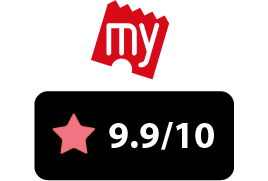
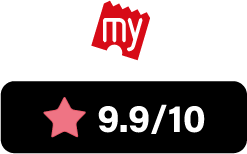
feat: enhance landing page with film embed feature and update rating badges with dimensions

Changed region(s): [[0.0, 0.4935, 1.0, 1.0], [0.3401, 0.0, 0.6518, 0.4416], [0.17, 0.6234, 0.3684, 0.9091]]

diff --git a/src/app/page.tsx b/src/app/page.tsx
@@ -1,24 +1,32 @@
 "use client";
 
-import { useRef } from "react";
+import { useRef, useState } from "react";
 import Image from "next/image";
 import { motion, useScroll, useTransform } from "framer-motion";
 import { ChevronDown } from "lucide-react";
 import MainPage from "@/app/main/page";
 
 const HERO_SCROLL_HEIGHT = "220vh";
+const FILM_SCROLL_HEIGHT = "200vh";
+
+const FILM_EMBEDS = [
+  { code: "kn", label: "Kannada", videoId: "0HNt5F_lEq4" },
+  { code: "hi", label: "Hindi", videoId: "f6K89V1VGH4" },
+  { code: "ta", label: "Tamil", videoId: "aHneBgdc4KQ" },
+  { code: "te", label: "Telugu", videoId: "KXth3Cikz0k" },
+] as const;
 
 const RATING_BADGES = [
-  { src: "/Asset 1@2x.png", alt: "BookMyShow rates Valavaara 9.9/10" },
-  { src: "/Asset 2@2x.png", alt: "IMDb rates Valavaara 7.3/10" },
-  { src: "/Asset 3@2x.png", alt: "Critic rating 4/5" },
-  { src: "/Asset 4@2x.png", alt: "TV9 Kannada rates Valavaara 4/5" },
-  { src: "/Asset 5@2x.png", alt: "Times of India rates Valavaara 4/5" },
-  { src: "/Asset 6@2x.png", alt: "Critic rating 3.5/5" },
-  { src: "/Asset 7@2x.png", alt: "Critic rating 4/5" },
-  { src: "/Asset 8@2x.png", alt: "Critic rating 3.5/5" },
-  { src: "/Asset 9@2x.png", alt: "Critic rating 3.5/5" },
-  { src: "/Asset 10@2x.png", alt: "Critic rating 3.5/5" },
+  { src: "/Asset 1@2x.png", alt: "BookMyShow rates Valavaara 9.9/10", width: 247, height: 154 },
+  { src: "/Asset 2@2x.png", alt: "IMDb rates Valavaara 7.3/10", width: 247, height: 154 },
+  { src: "/Asset 3@2x.png", alt: "Critic rating 4/5", width: 355, height: 152 },
+  { src: "/Asset 4@2x.png", alt: "TV9 Kannada rates Valavaara 4/5", width: 355, height: 181 },
+  { src: "/Asset 5@2x.png", alt: "Times of India rates Valavaara 4/5", width: 355, height: 174 },
+  { src: "/Asset 6@2x.png", alt: "Critic rating 3.5/5", width: 386, height: 157 },
+  { src: "/Asset 7@2x.png", alt: "Critic rating 4/5", width: 385, height: 178 },
+  { src: "/Asset 8@2x.png", alt: "Critic rating 3.5/5", width: 355, height: 164 },
+  { src: "/Asset 9@2x.png", alt: "Critic rating 3.5/5", width: 386, height: 154 },
+  { src: "/Asset 10@2x.png", alt: "Critic rating 3.5/5", width: 386, height: 163 },
 ];
 
 export default function LandingPage() {
@@ -37,6 +45,16 @@ export default function LandingPage() {
 
   // Poster + overlay fade out near the end, revealing the main page underneath
   const posterOpacity = useTransform(scrollYProgress, [0.65, 0.95], [1, 0]);
+
+  // Full-length film embed: fades in as it's scrolled to, holds fullscreen, then fades into the main site
+  const filmRef = useRef<HTMLDivElement>(null);
+  const { scrollYProgress: filmScrollYProgress } = useScroll({
+    target: filmRef,
+    offset: ["start start", "end start"],
+  });
+  const filmOpacity = useTransform(filmScrollYProgress, [0, 0.15, 0.85, 1], [0, 1, 1, 0]);
+  const [activeLanguage, setActiveLanguage] = useState<(typeof FILM_EMBEDS)[number]["code"]>("kn");
+  const activeFilm = FILM_EMBEDS.find((f) => f.code === activeLanguage) ?? FILM_EMBEDS[0];
 
   return (
     <>
@@ -76,14 +94,15 @@ export default function LandingPage() {
             className="absolute inset-x-0 bottom-28 z-20 hidden md:flex flex-wrap justify-center items-center gap-3 px-6 max-w-2xl mx-auto"
           >
             {RATING_BADGES.map((badge) => (
-              <Image
-                key={badge.src}
-                src={badge.src}
-                alt={badge.alt}
-                width={355}
-                height={174}
-                className="w-24 md:w-28 h-auto drop-shadow-2xl"
-              />
+              <div key={badge.src} className="relative h-11 md:h-[52px] w-24 md:w-28 drop-shadow-2xl">
+                <Image
+                  src={badge.src}
+                  alt={badge.alt}
+                  fill
+                  sizes="112px"
+                  className="object-contain"
+                />
+              </div>
             ))}
           </motion.div>
 
@@ -97,6 +116,53 @@ export default function LandingPage() {
             <span className="text-xs tracking-[0.3em] uppercase">Scroll</span>
             <ChevronDown className="animate-bounce" size={28} />
           </motion.a>
+        </div>
+      </div>
+
+      {/* Full-length film, pinned fullscreen while scrolling through it */}
+      <div ref={filmRef} className="relative" style={{ height: FILM_SCROLL_HEIGHT }}>
+        <div className="sticky top-0 h-screen w-full overflow-hidden bg-background">
+          <motion.div
+            style={{ opacity: filmOpacity }}
+            className="absolute inset-0 flex flex-col items-center justify-center gap-4 px-4"
+          >
+            {/* Heading */}
+            <h2 className="text-xl md:text-3xl font-bold text-center text-foreground px-4">
+              Watch the Full Film in <span className="gradient-text">Multiple Languages</span>
+            </h2>
+
+            {/* Language switcher - own row above the video, always fully visible */}
+            <div className="flex justify-center gap-2 px-4 flex-wrap z-20">
+              {FILM_EMBEDS.map((lang) => (
+                <button
+                  key={lang.code}
+                  onClick={() => setActiveLanguage(lang.code)}
+                  className={`px-4 py-1.5 rounded-full text-xs md:text-sm font-medium backdrop-blur-sm transition-colors ${
+                    activeLanguage === lang.code
+                      ? "bg-primary text-white"
+                      : "bg-black/50 text-white/80 hover:bg-black/70"
+                  }`}
+                >
+                  {lang.label}
+                </button>
+              ))}
+            </div>
+
+            {/* Video - 90% of the screen, not true fullscreen, so the tabs above stay clear */}
+            <div className="relative w-[95%] md:w-[90%] max-w-6xl aspect-video max-h-[75vh] rounded-lg overflow-hidden shadow-2xl">
+              <iframe
+                key={activeFilm.code}
+                src={`https://www.youtube.com/embed/${activeFilm.videoId}?rel=0&modestbranding=1`}
+                title={`Valavaara Full Movie - ${activeFilm.label}`}
+                className="absolute inset-0 w-full h-full"
+                frameBorder="0"
+                allow="accelerometer; clipboard-write; encrypted-media; gyroscope; picture-in-picture; web-share"
+                referrerPolicy="strict-origin-when-cross-origin"
+                allowFullScreen
+                loading="lazy"
+              />
+            </div>
+          </motion.div>
         </div>
       </div>
 
